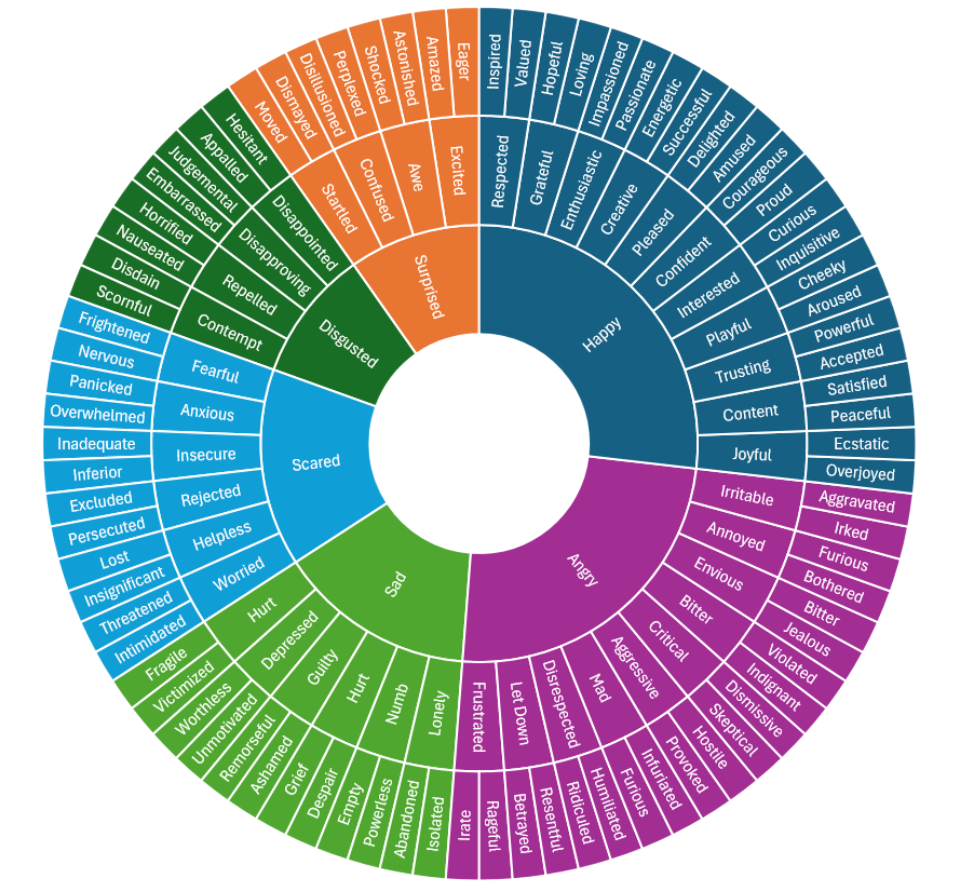
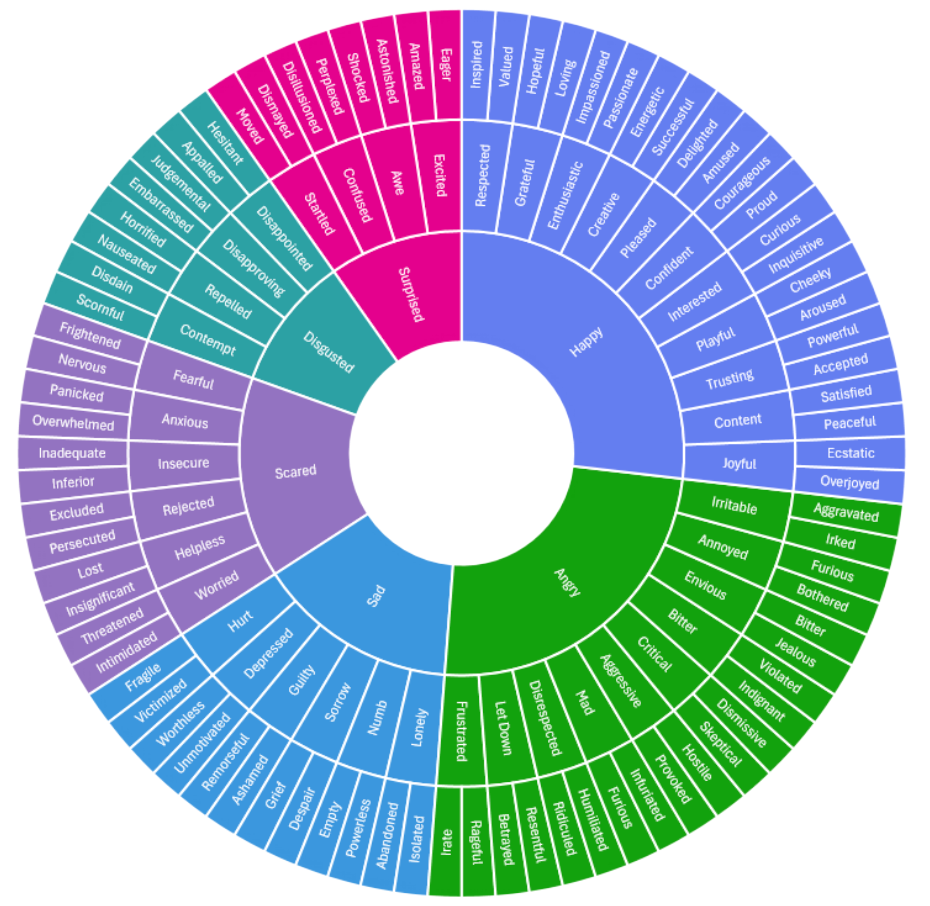
Finished Wheel

diff --git a/src/components/Wheel/Wheel.jsx b/src/components/Wheel/Wheel.jsx
@@ -1,15 +1,154 @@
 import { useRef, useState, useEffect } from "react";
+import wheelImg from "../../assets/images/FeelingsWheel.png";
 import "./Wheel.css";
-import wheelRef from "../../assets/images/FeelingsWheel.png";
 
-const Wheel = ({ src, size = 400 }) => {
+const innerCircle = [
+    { name: "Happy", start: 270, end: 6.59, description: "Feeling joyful and content." },
+    { name: "Angry", start: 6.59, end: 94.39, description: "Feeling frustrated or upset." },
+    { name: "Sad", start: 94.39, end: 147.07, description: "Feeling down or disappointed." },
+    { name: "Scared", start: 147.07, end: 199.76, description: "Feeling fearful or anxious." },
+    { name: "Disgusted", start: 199.76, end: 234.88, description: "Feeling revolted or appalled." },
+    { name: "Surprised", start: 234.88, end: 270, description: "Feeling astonished or amazed." },
+];
+
+const middleCircle = [
+  { name: "Respected", start: 270.00, end: 278.78, description: "Feeling valued and honored by others." },
+  { name: "Grateful", start: 278.78, end: 287.56, description: "Feeling thankful and appreciative." },
+  { name: "Enthusiastic", start: 287.56, end: 296.34, description: "Feeling excited and eager to engage." },
+  { name: "Creative", start: 296.34, end: 305.12, description: "Feeling imaginative and inspired." },
+  { name: "Pleased", start: 305.12, end: 313.90, description: "Feeling satisfied and content." },
+  { name: "Confident", start: 313.90, end: 322.68, description: "Feeling sure of yourself and your abilities." },
+  { name: "Interested", start: 322.68, end: 331.46, description: "Feeling curious and engaged." },
+  { name: "Playful", start: 331.46, end: 340.24, description: "Feeling lighthearted and fun." },
+  { name: "Trusting", start: 340.24, end: 349.02, description: "Feeling secure relying on others." },
+  { name: "Content", start: 349.02, end: 357.80, description: "Feeling calm satisfaction and peace." },
+  { name: "Joyful", start: 357.80, end: 6.58, description: "Feeling full of happiness and delight." },
+  { name: "Irritable", start: 6.58, end: 15.36, description: "Feeling easily annoyed or agitated." },
+  { name: "Annoyed", start: 15.36, end: 24.14, description: "Feeling mildly bothered or exasperated." },
+  { name: "Envious", start: 24.14, end: 32.92, description: "Feeling jealous of others' advantages." },
+  { name: "Bitter", start: 32.92, end: 41.70, description: "Feeling resentful or holding onto anger." },
+  { name: "Critical", start: 41.70, end: 50.48, description: "Feeling judgmental or disapproving." },
+  { name: "Aggressive", start: 50.48, end: 59.26, description: "Feeling forceful or confrontational." },
+  { name: "Mad", start: 59.26, end: 68.04, description: "Feeling angry or enraged." },
+  { name: "Disrespected", start: 68.04, end: 76.82, description: "Feeling undervalued or insulted." },
+  { name: "Let Down", start: 76.82, end: 85.60, description: "Feeling betrayed or disappointed." },
+  { name: "Frustrated", start: 85.60, end: 94.38, description: "Feeling blocked or unable to achieve goals." },
+  { name: "Lonely", start: 94.38, end: 103.16, description: "Feeling isolated or disconnected." },
+  { name: "Numb", start: 103.16, end: 111.94, description: "Feeling emotionally detached." },
+  { name: "Sorrow", start: 111.94, end: 120.72, description: "Feeling deep sadness or grief." },
+  { name: "Guilty", start: 120.72, end: 129.50, description: "Feeling responsible for wrongdoing." },
+  { name: "Depressed", start: 129.50, end: 138.28, description: "Feeling persistently sad or hopeless." },
+  { name: "Hurt", start: 138.28, end: 147.06, description: "Feeling emotional pain from rejection or loss." },
+  { name: "Worried", start: 147.06, end: 155.84, description: "Feeling uneasy about future problems." },
+  { name: "Helpless", start: 155.84, end: 164.62, description: "Feeling powerless to change things." },
+  { name: "Rejected", start: 164.62, end: 173.40, description: "Feeling unwanted or dismissed." },
+  { name: "Insecure", start: 173.40, end: 182.18, description: "Feeling uncertain about your worth." },
+  { name: "Anxious", start: 182.18, end: 190.96, description: "Feeling tense or uneasy." },
+  { name: "Fearful", start: 190.96, end: 199.74, description: "Feeling afraid of potential danger." },
+  { name: "Contempt", start: 199.74, end: 208.52, description: "Feeling disdainful toward others." },
+  { name: "Repelled", start: 208.52, end: 217.30, description: "Feeling disgusted or pushed away." },
+  { name: "Disapproving", start: 217.30, end: 226.08, description: "Feeling morally or personally against something." },
+  { name: "Disappointed", start: 226.08, end: 234.86, description: "Feeling let down by unmet expectations." },
+  { name: "Startled", start: 234.86, end: 243.64, description: "Feeling suddenly surprised or alarmed." },
+  { name: "Confused", start: 243.64, end: 252.42, description: "Feeling uncertain or unclear." },
+  { name: "Awe", start: 252.42, end: 261.20, description: "Feeling inspired by something vast or powerful." },
+  { name: "Excited", start: 261.20, end: 270, description: "Feeling thrilled or eager." },
+];
+
+const outerCircle = [
+  { name: "Inspired", start: 270.00, end: 274.44, description: "Feeling mentally stimulated to create or act." },
+  { name: "Valued", start: 274.44, end: 278.89, description: "Feeling appreciated and recognized by others." },
+  { name: "Hopeful", start: 278.89, end: 283.33, description: "Feeling optimistic about what is to come." },
+  { name: "Loving", start: 283.33, end: 287.78, description: "Feeling deep affection or care for someone or something." },
+  { name: "Impassioned", start: 287.78, end: 292.22, description: "Feeling filled with strong emotion or enthusiasm." },
+  { name: "Passionate", start: 292.22, end: 296.67, description: "Feeling intense excitement or love toward something." },
+  { name: "Energetic", start: 296.67, end: 301.11, description: "Feeling full of energy and vitality." },
+  { name: "Successful", start: 301.11, end: 305.56, description: "Feeling accomplished and fulfilled in your goals." },
+  { name: "Delighted", start: 305.56, end: 310.00, description: "Feeling greatly pleased or happy." },
+  { name: "Amused", start: 310.00, end: 314.44, description: "Feeling entertained or pleasantly surprised." },
+  { name: "Courageous", start: 314.44, end: 318.89, description: "Feeling brave and ready to face challenges." },
+  { name: "Proud", start: 318.89, end: 323.33, description: "Feeling satisfaction and self-respect for achievements." },
+  { name: "Curious", start: 323.33, end: 327.78, description: "Feeling eager to know or learn something new." },
+  { name: "Inquisitive", start: 327.78, end: 332.22, description: "Feeling driven to ask questions or investigate." },
+  { name: "Cheeky", start: 332.22, end: 336.67, description: "Feeling playfully bold or mischievous." },
+  { name: "Aroused", start: 336.67, end: 341.11, description: "Feeling emotionally or physically stimulated." },
+  { name: "Powerful", start: 341.11, end: 345.56, description: "Feeling capable, influential, or strong." },
+  { name: "Accepted", start: 345.56, end: 350.00, description: "Feeling included and acknowledged by others." },
+  { name: "Satisfied", start: 350.00, end: 354.44, description: "Feeling content and fulfilled." },
+  { name: "Peaceful", start: 354.44, end: 358.89, description: "Feeling calm and serene." },
+  { name: "Ecstatic", start: 358.89, end: 3.33, description: "Feeling overwhelming joy or happiness." },
+  { name: "Overjoyed", start: 3.33, end: 7.78, description: "Feeling extremely delighted or happy." },
+  { name: "Aggravated", start: 7.78, end: 12.22, description: "Feeling annoyed or made worse by irritation." },
+  { name: "Irked", start: 12.22, end: 16.67, description: "Feeling slightly annoyed or irritated." },
+  { name: "Furious", start: 16.67, end: 21.11, description: "Feeling extremely angry or enraged." },
+  { name: "Bothered", start: 21.11, end: 25.56, description: "Feeling uneasy or disturbed by something." },
+  { name: "Bitter", start: 25.56, end: 30.00, description: "Feeling resentful or holding onto past anger." },
+  { name: "Jealous", start: 30.00, end: 34.44, description: "Feeling envious or possessive over something." },
+  { name: "Violated", start: 34.44, end: 38.89, description: "Feeling your personal space or trust was broken." },
+  { name: "Indignant", start: 38.89, end: 43.33, description: "Feeling anger or resentment toward unfairness." },
+  { name: "Dismissive", start: 43.33, end: 47.78, description: "Feeling indifferent or disregarding something." },
+  { name: "Skeptical", start: 47.78, end: 52.22, description: "Feeling doubtful or unconvinced." },
+  { name: "Hostile", start: 52.22, end: 56.67, description: "Feeling antagonistic or opposed to something." },
+  { name: "Provoked", start: 56.67, end: 61.11, description: "Feeling angered or triggered by someone’s actions." },
+  { name: "Infuriated", start: 61.11, end: 65.56, description: "Feeling furious or beyond irritated." },
+  { name: "Humiliated", start: 65.56, end: 70.00, description: "Feeling ashamed or degraded in front of others." },
+  { name: "Ridiculed", start: 70.00, end: 74.44, description: "Feeling mocked or made fun of." },
+  { name: "Resentful", start: 74.44, end: 78.89, description: "Feeling bitter about unfair treatment." },
+  { name: "Betrayed", start: 78.89, end: 83.33, description: "Feeling let down by someone trusted." },
+  { name: "Rageful", start: 83.33, end: 87.78, description: "Feeling explosive anger or fury." },
+  { name: "Irate", start: 87.78, end: 92.22, description: "Feeling extremely angry or enraged." },
+  { name: "Isolated", start: 92.22, end: 96.67, description: "Feeling alone or cut off from others." },
+  { name: "Abandoned", start: 96.67, end: 101.11, description: "Feeling deserted or left behind." },
+  { name: "Powerless", start: 101.11, end: 105.56, description: "Feeling unable to affect outcomes." },
+  { name: "Empty", start: 105.56, end: 110.00, description: "Feeling hollow or without emotion." },
+  { name: "Despair", start: 110.00, end: 114.44, description: "Feeling a total loss of hope." },
+  { name: "Grief", start: 114.44, end: 118.89, description: "Feeling deep sorrow due to loss." },
+  { name: "Ashamed", start: 118.89, end: 123.33, description: "Feeling embarrassed about your actions or self." },
+  { name: "Remorseful", start: 123.33, end: 127.78, description: "Feeling regretful about something wrong done." },
+  { name: "Unmotivated", start: 127.78, end: 132.22, description: "Feeling without energy or drive." },
+  { name: "Worthless", start: 132.22, end: 136.67, description: "Feeling of having no value or purpose." },
+  { name: "Victimized", start: 136.67, end: 141.11, description: "Feeling unfairly harmed or mistreated." },
+  { name: "Fragile", start: 141.11, end: 145.56, description: "Feeling emotionally delicate or easily hurt." },
+  { name: "Intimidated", start: 145.56, end: 150.00, description: "Feeling fearful or overpowered by someone." },
+  { name: "Threatened", start: 150.00, end: 154.44, description: "Feeling unsafe or in danger." },
+  { name: "Insignificant", start: 154.44, end: 158.89, description: "Feeling unimportant or small." },
+  { name: "Lost", start: 158.89, end: 163.33, description: "Feeling directionless or without clarity." },
+  { name: "Persecuted", start: 163.33, end: 167.78, description: "Feeling unfairly attacked or oppressed." },
+  { name: "Excluded", start: 167.78, end: 172.22, description: "Feeling left out or rejected." },
+  { name: "Inferior", start: 172.22, end: 176.67, description: "Feeling lower in status or ability." },
+  { name: "Inadequate", start: 176.67, end: 181.11, description: "Feeling not good enough or insufficient." },
+  { name: "Overwhelmed", start: 181.11, end: 185.56, description: "Feeling overcome by stress or emotion." },
+  { name: "Panicked", start: 185.56, end: 190.00, description: "Feeling sudden uncontrollable fear." },
+  { name: "Nervous", start: 190.00, end: 194.44, description: "Feeling uneasy or tense." },
+  { name: "Frightened", start: 194.44, end: 198.89, description: "Feeling afraid of danger or harm." },
+  { name: "Scornful", start: 198.89, end: 203.33, description: "Feeling contempt or derision toward others." },
+  { name: "Disdain", start: 203.33, end: 207.78, description: "Feeling strong dislike or disrespect." },
+  { name: "Nauseated", start: 207.78, end: 212.22, description: "Feeling physically or emotionally sickened." },
+  { name: "Horrified", start: 212.22, end: 216.67, description: "Feeling shocked by something terrifying." },
+  { name: "Embarrassed", start: 216.67, end: 221.11, description: "Feeling awkward or self-conscious." },
+  { name: "Judgemental", start: 221.11, end: 225.56, description: "Feeling critical of others' actions or choices." },
+  { name: "Appalled", start: 225.56, end: 230.00, description: "Feeling horrified or offended." },
+  { name: "Hesitant", start: 230.00, end: 234.44, description: "Feeling uncertain or reluctant to act." },
+  { name: "Moved", start: 234.44, end: 238.89, description: "Feeling emotionally touched or stirred." },
+  { name: "Dismayed", start: 238.89, end: 243.33, description: "Feeling disappointed or distressed." },
+  { name: "Disillusioned", start: 243.33, end: 247.78, description: "Feeling let down by false beliefs or hopes." },
+  { name: "Perplexed", start: 247.78, end: 252.22, description: "Feeling confused or puzzled." },
+  { name: "Shocked", start: 252.22, end: 256.67, description: "Feeling stunned or surprised by something unexpected." },
+  { name: "Astonished", start: 256.67, end: 261.11, description: "Feeling amazed or taken aback." },
+  { name: "Amazed", start: 261.11, end: 265.56, description: "Feeling wonder or admiration for something." },
+  { name: "Eager", start: 265.56, end: 270.00, description: "Feeling keen anticipation or excitement." },
+];
+
+const Wheel = () => {
   const imgRef = useRef(null);
+  const containerRef = useRef(null);
   const [angle, setAngle] = useState(0);
+  const [hovered, setHovered] = useState(null);
+
   const dragging = useRef(false);
   const lastAngle = useRef(0);
 
-  const getAngleFromEvent = (e) => {
-    const rect = imgRef.current.getBoundingClientRect();
+  const getAngleFromEvent = (e, rect) => {
     const cx = rect.left + rect.width / 2;
     const cy = rect.top + rect.height / 2;
     const x = (e.clientX ?? e.touches?.[0].clientX) - cx;
@@ -20,18 +159,20 @@ const Wheel = ({ src, size = 400 }) => {
   const handlePointerDown = (e) => {
     e.preventDefault();
     dragging.current = true;
-    lastAngle.current = getAngleFromEvent(e);
+    const rect = containerRef.current.getBoundingClientRect();
+    lastAngle.current = getAngleFromEvent(e, rect);
     window.addEventListener("pointermove", handlePointerMove);
     window.addEventListener("pointerup", handlePointerUp);
   };
 
   const handlePointerMove = (e) => {
     if (!dragging.current) return;
-    const a = getAngleFromEvent(e);
+    const rect = containerRef.current.getBoundingClientRect();
+    const a = getAngleFromEvent(e, rect);
     let diff = a - lastAngle.current;
     if (diff > 180) diff -= 360;
     if (diff < -180) diff += 360;
-    setAngle((prev) => prev + diff);
+    setAngle((prev) => (prev + diff + 360) % 360);
     lastAngle.current = a;
   };
 
@@ -39,6 +180,49 @@ const Wheel = ({ src, size = 400 }) => {
     dragging.current = false;
     window.removeEventListener("pointermove", handlePointerMove);
     window.removeEventListener("pointerup", handlePointerUp);
+  };
+
+  const handleMouseMove = (e) => {
+    const rect = imgRef.current.getBoundingClientRect();
+    const cx = rect.left + rect.width / 2;
+    const cy = rect.top + rect.height / 2;
+    const x = e.clientX - cx;
+    const y = e.clientY - cy;
+    let dist = Math.sqrt(x * x + y * y);
+    const scale = Math.min(rect.width, rect.height) / 500;
+    dist = dist / scale;
+
+    const pixelsPerRadius = 46;
+    const innerIRadius = pixelsPerRadius * 1;
+    const innerORadius = pixelsPerRadius * 2;
+    const middleORadius = pixelsPerRadius * 3;
+    const outerORadius = pixelsPerRadius * 4;
+
+    if (dist < innerIRadius || dist >= outerORadius) {
+      setHovered(null);
+      return;
+    }
+
+    let deg = (Math.atan2(y, x) * 180) / Math.PI;
+    if (deg < 0) deg += 360;
+    deg = (deg - angle + 360) % 360;
+
+    const getHoveredEmotion = (circle, deg) =>
+      circle.find((emo) =>
+        emo.start < emo.end
+          ? deg >= emo.start && deg < emo.end
+          : deg >= emo.start || deg < emo.end
+      );
+
+    let hoveredEmotion;
+    if (dist >= innerIRadius && dist < innerORadius)
+      hoveredEmotion = getHoveredEmotion(innerCircle, deg);
+    else if (dist >= innerORadius && dist < middleORadius)
+      hoveredEmotion = getHoveredEmotion(middleCircle, deg);
+    else if (dist >= middleORadius && dist < outerORadius)
+      hoveredEmotion = getHoveredEmotion(outerCircle, deg);
+
+    setHovered(hoveredEmotion);
   };
 
   useEffect(() => {
@@ -50,31 +234,26 @@ const Wheel = ({ src, size = 400 }) => {
 
   return (
     <div
-      style={{
-        width: size,
-        height: size,
-        display: "grid",
-        placeItems: "center",
-        userSelect: "none",
-        touchAction: "none",
-        cursor: "grab",
-      }}
+      ref={containerRef}
+      className="wheel-container"
       onPointerDown={handlePointerDown}
+      onMouseMove={handleMouseMove}
     >
       <img
         ref={imgRef}
-        src={wheelRef}
-        alt="Spinning wheel"
+        src={wheelImg}
+        alt="Feelings Wheel"
         draggable="false"
-        style={{
-          width: "100%",
-          height: "100%",
-          objectFit: "contain",
-          transform: `rotate(${angle}deg)`,
-          transition: "transform 0s",
-          pointerEvents: "none",
-        }}
+        className="wheel-image"
+        style={{ transform: `rotate(${angle}deg)` }}
       />
+
+      {hovered && (
+        <div className="tooltip">
+          <h3>{hovered.name}</h3>
+          <p>{hovered.description}</p>
+        </div>
+      )}
     </div>
   );
 };

diff --git a/src/components/Wheel/Wheel.css b/src/components/Wheel/Wheel.css
@@ -1,0 +1,37 @@
+.wheel-container {
+  position: relative;
+  display: flex;
+  justify-content: center;
+  align-items: center;
+  height: calc(100vh - 100px); /* leave space for navbar */
+  margin-top: 20px; /* adjust based on navbar height */
+  user-select: none;
+  cursor: grab;
+  overflow: hidden;
+}
+
+/* ✅ Responsive wheel sizing */
+.wheel-image {
+  width: min(80vw, 80vh); /* responsive sizing */
+  max-width: 700px;
+  height: auto;
+  object-fit: contain;
+  transition: transform 0s;
+  pointer-events: auto;
+}
+
+.tooltip {
+  position: absolute;
+  bottom: 40px;
+  left: 50%;
+  transform: translateX(-50%);
+  background: rgba(255, 255, 255, 0.95);
+  border: 2px solid #333;
+  border-radius: 8px;
+  padding: 10px 15px;
+  text-align: center;
+  min-width: 150px;
+  pointer-events: none;
+  z-index: 10;
+  box-shadow: 0 4px 10px rgba(0, 0, 0, 0.2);
+}

diff --git a/src/components/NavBar/NavBar.jsx b/src/components/NavBar/NavBar.jsx
@@ -27,7 +27,6 @@ const NavBar = () => {
       <div className="nav-img-container">
         <img src={logo} alt="logo" />
       </div>
-      {/* <div> */}
       {user ? (
         <ul>
           <li>
